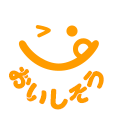
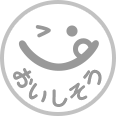
2016/12/09　「美味しそう」ボタン

diff --git a/sp/css/sp/school.css b/sp/css/sp/school.css
@@ -8,13 +8,18 @@ html { background:#FFFFFF; }
 	position: relative;
 	width: 280px;
 	height: 280px;
-}.btnOverlay .btnOverLayBody{
+}
+.btnOverlay .btnOverLayBody{
 	position: absolute;
-	top: 10px;
+	top: 240px;
 	right: 10px;
 	width: 50px;
-	font-size: xx-small;
-	color: #ee7d00;
+	text-align: center;
+}
+.btnOverlay .btnOverLayBody p{
+	margin-top: 5px;
+	font-size: x-small;
+	font-weight: bold;
 }
 .btnOverlay .delicious_off{
 	width: 50px;
@@ -27,6 +32,7 @@ html { background:#FFFFFF; }
 	height: 50px;
 	background: url(../../image/sp/delicious_on.png) left top no-repeat;
 	background-size: 50px;
+	color: #ee7d00;
 }
 /*
 .btnOverlay .btnOverLayIcon{
@@ -275,7 +281,7 @@ div#footerArea li.commentBtn a {
 ===================================*/
 #school #top .photo{
 	width: 280px;
-	height: 280px;
+	height: 300px;
 	margin-bottom: 10px;
 	margin-left:auto;
 	margin-right:auto;
@@ -518,6 +524,8 @@ div#footerArea li.commentBtn a {
 
 
 #school #top .recipetxt p{
+	width: 90%;
+	margin: 0 auto;
 	padding:10px;
     font-size: 15px;
 }

diff --git a/sp/recipe-default.html b/sp/recipe-default.html
@@ -149,6 +149,7 @@ ks.stop(true,false).toggle();
   <a href="/image/upload/recipe/00/00/01/89/74_20150902185254.JPG" class="colorbox"><img src="https://cookingschool.jp/image/cache/image/upload/recipe/00/00/01/89/280x280_74_20150902185254.png" id="picture" alt="海老の生ハム巻きフリット"></a>
   <div class="btnOverLayBody">
     <div class="delicious_off"></div>
+    <p>224</p>
     <!-- 美味しそう済：class="delicious_on" -->
   </div>
 </div>
